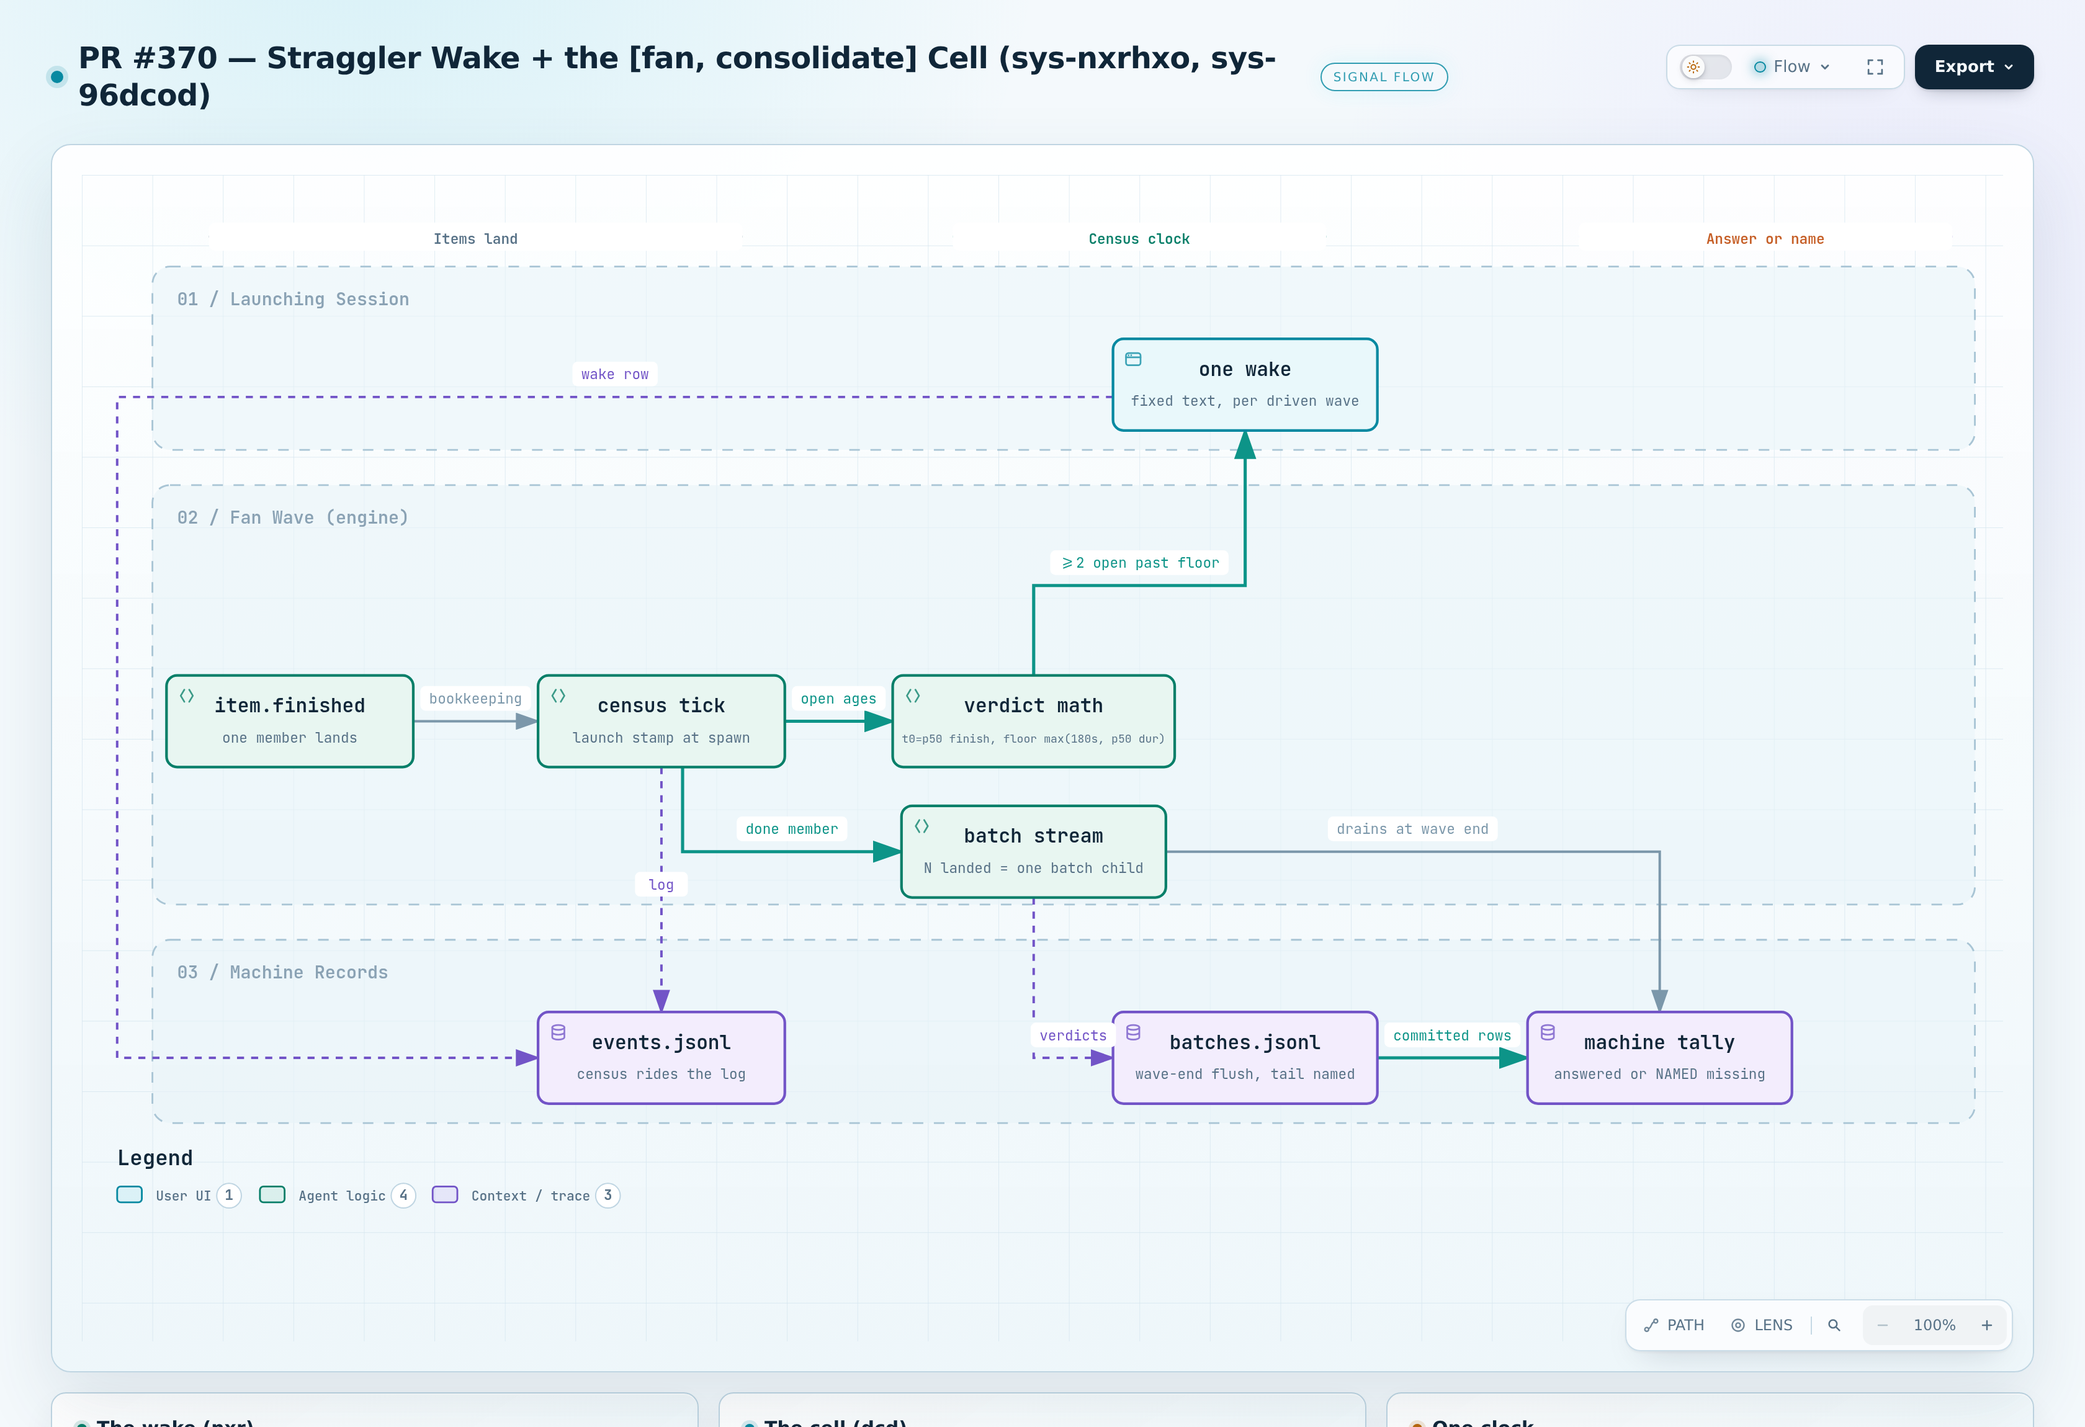
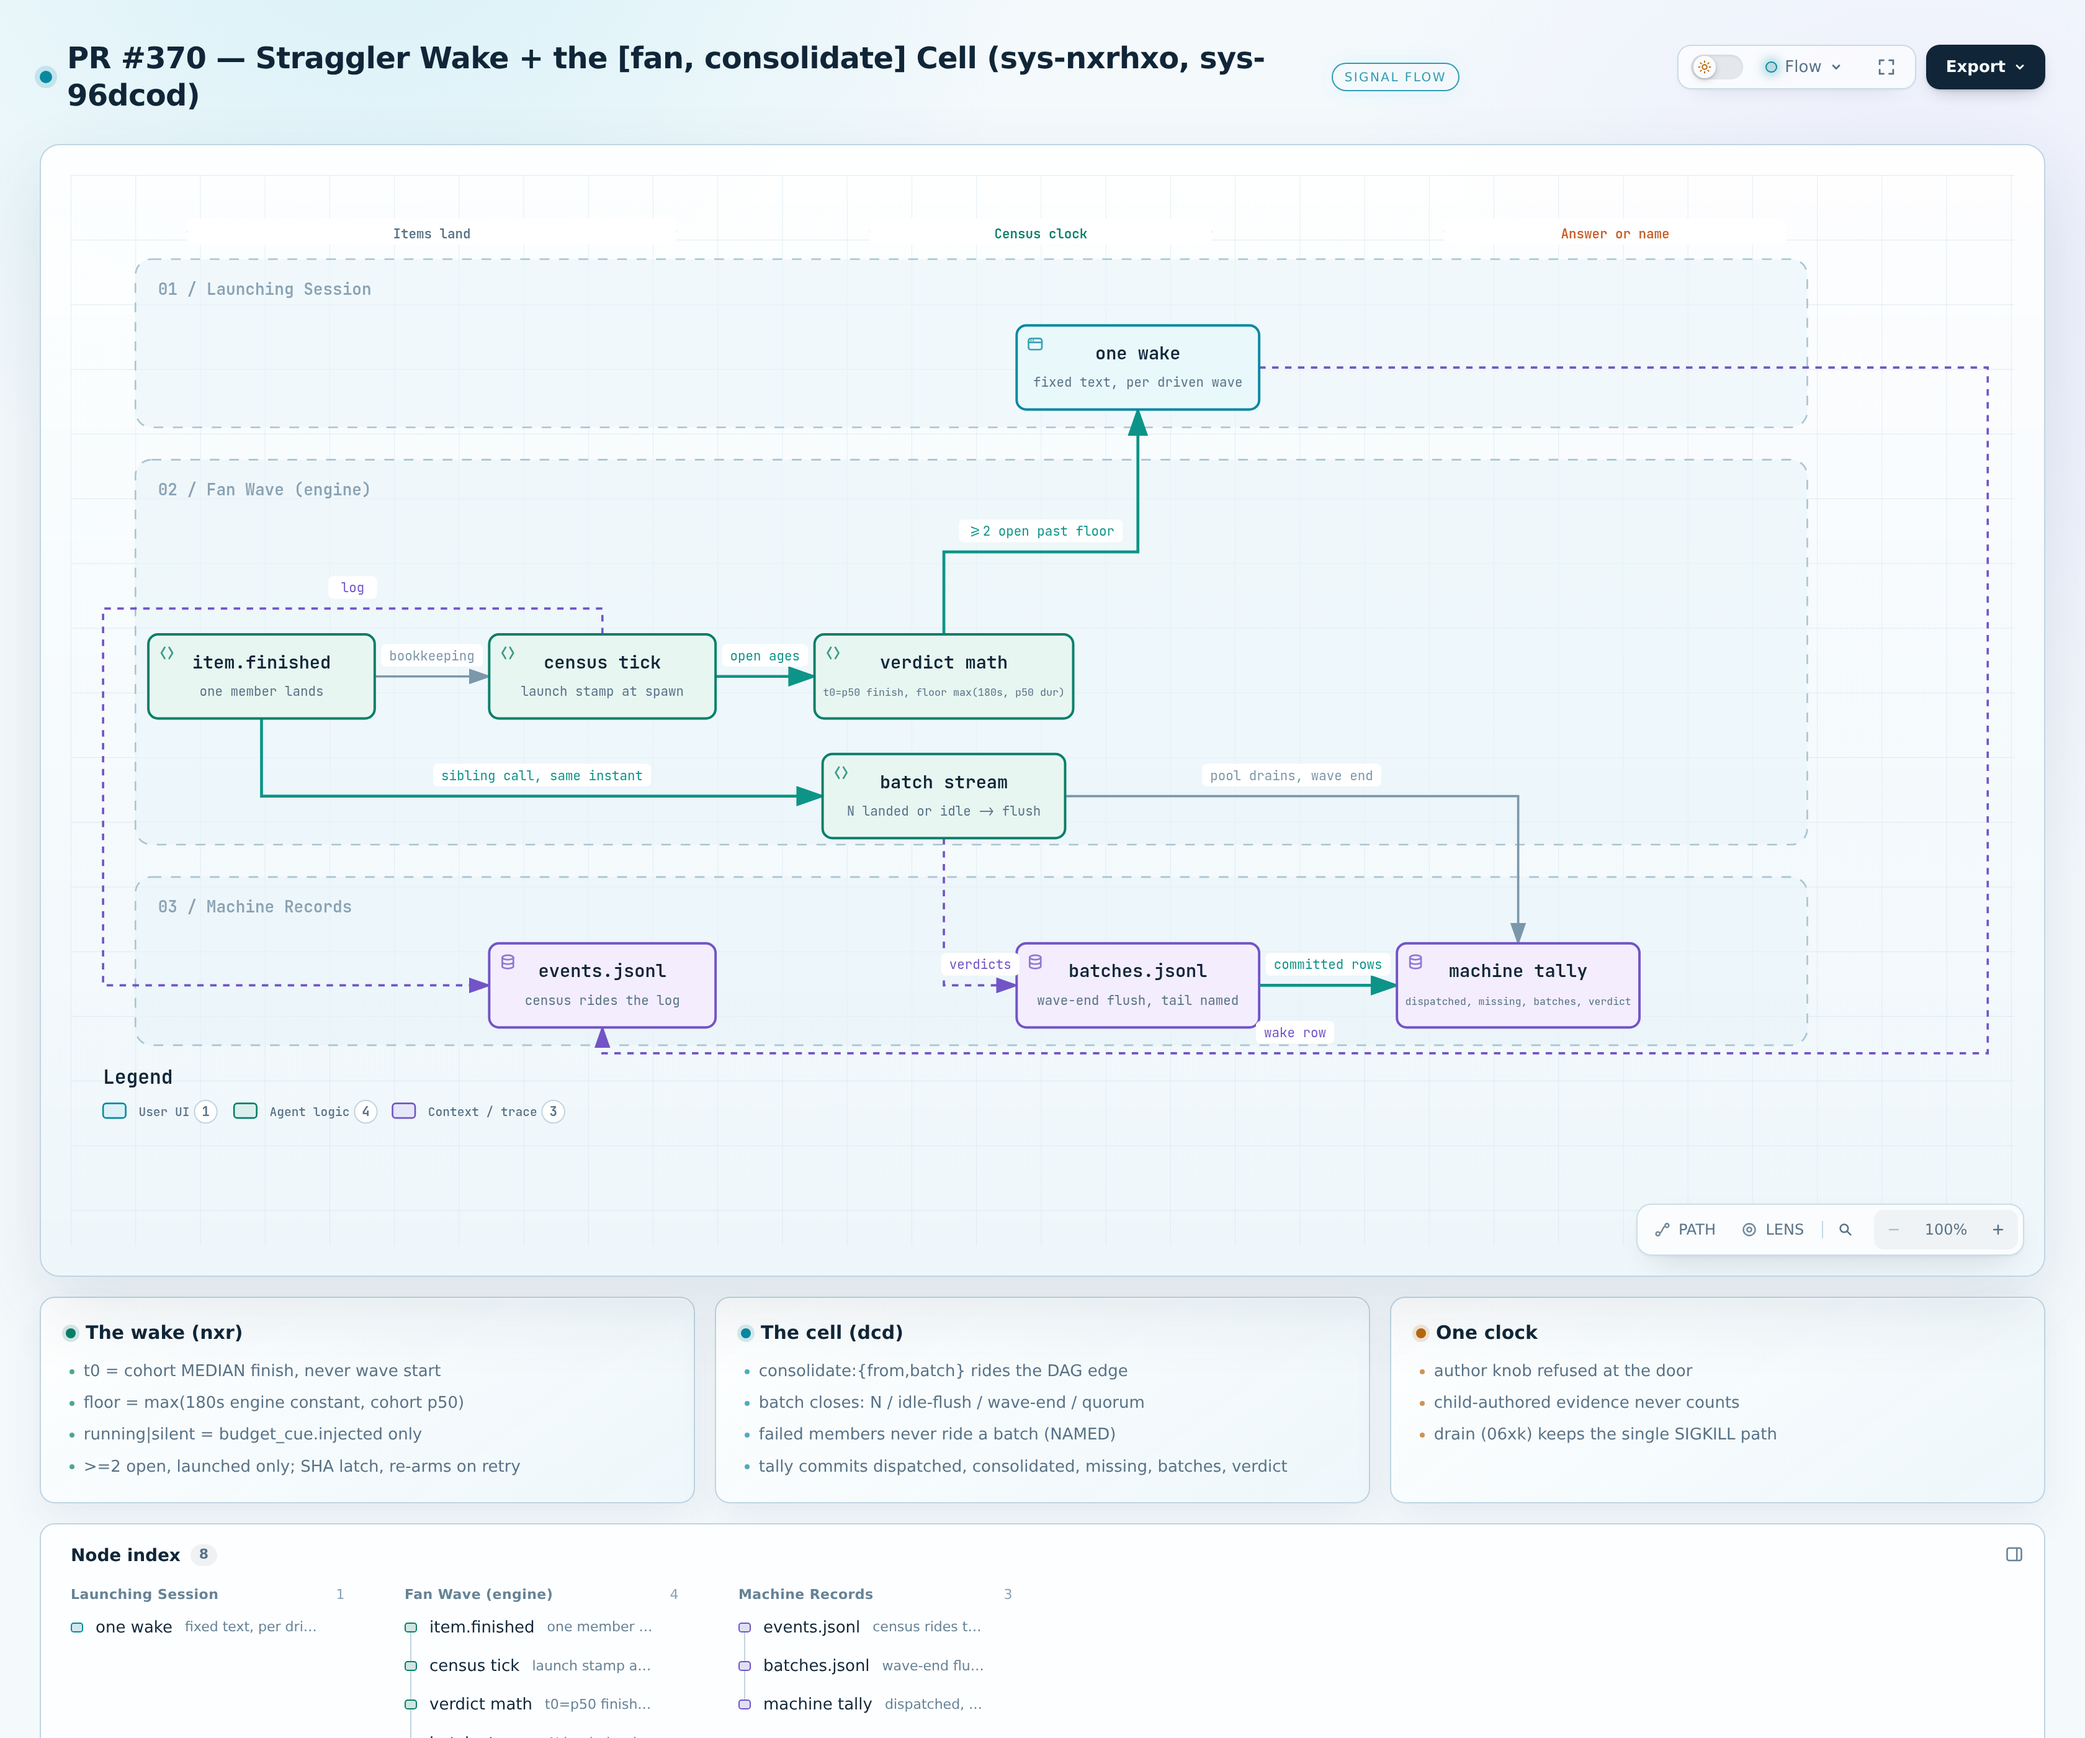
docs(pr-diagrams): carrier v2 — honest hand-off seam + VIP trims (haus fidelity @3cdaec4)
Fidelity answer from the code: _straggler_tick (wf.py:6376) and _cell_on_item
(wf.py:6382) are SIBLING calls in the item-commit block — the tick does not
funnel members into the stream. Old 'census tick -done member-> batch stream'
edge replaced by 'item.finished -sibling call, same instant-> batch stream'.
Trims: idle-flush close, budget_cue.injected gate, full tally field set;
cards fully in frame (window 1680x1400).

diff --git a/SKILL.md b/SKILL.md
@@ -39,13 +39,7 @@ ending your turn right after `run` is how runs stall.
   spawn.
 - A node `schema` makes the runner write the reply contract into the prompt — keep
   contract prose out of goals.
-- Independent tasks: separate nodes or one `fanout` with `items`. `quorum` races:
-  once N succeed, the rest are cancelled — `quorum_drain_s:<s>` (default 0) gives
-  running stragglers a drain window to land before that cancel.
-- Pair every fan-out: its partner agent declares `consolidate:{"from":"<fan>","batch":1}`
-  and finished members consolidate WHILE stragglers run; the partner commits a machine
-  tally (every item answered or NAMED missing). A left-open item past the cohort's
-  clock fires one `fanout.stragglers` wake — steer, accept partial, or stop. Never poll.
+- Independent tasks: separate nodes or one `fanout` with `items`. `quorum` races: once N succeed, the rest are cancelled — `quorum_drain_s:<s>` (default 0) gives running stragglers a drain window; pair every fan-out with a `consolidate` partner (`{"from":"<fan>","batch":1}`) — left-open items past the cohort clock fire one `fanout.stragglers` wake, never poll.
 - Shared settings go in a graph-level `defaults` once. Leave node budgets unset and
   name a `shape`; see [budgets](references/budgets.md). A constant travels as an
   `echo` node, never an agent spawn.
